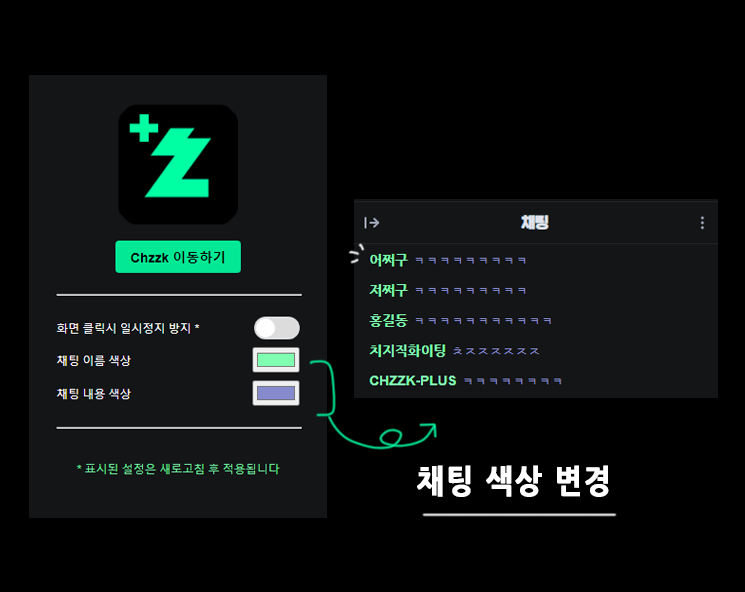
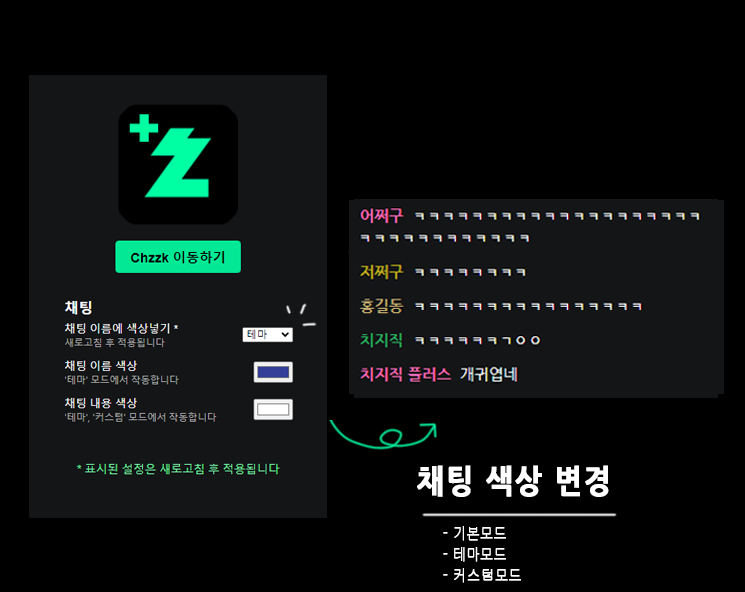
feat(chat): 채팅 색상 모드 (기본, 테마, 커스텀) #2 #3 #4

diff --git a/src/page/live.ts b/src/page/live.ts
@@ -1,11 +1,20 @@
 import Barricade from "../components/video/Barricade/Barricade";
 import PipButton from "../components/button/PipButton/PipButton";
 
-import { PLAYER_LAYOUT_ID, PLAYER_UI } from "../constants/class";
+import {
+  CHAT_CONTAINER,
+  CHAT_CONTENT,
+  CHAT_NAME,
+  PLAYER_LAYOUT_ID,
+  PLAYER_UI,
+} from "../constants/class";
+import { BARRICADE, CHAT_COLOR_THEME } from "../constants/storage";
 
 import { createReactElement } from "../utils/dom";
 import { isLivePage } from "../utils/page";
-import { log } from "../utils/log";
+import { log, logError } from "../utils/log";
+import { getNameColor } from "../utils/color";
+import { CHAT_NAME_COLOR, CHAT_TEXT_COLOR } from "../constants/data";
 
 export const editLivePage = () => {
   if (!isLivePage()) return;
@@ -31,8 +40,64 @@ export const editLivePage = () => {
   }
 
   // Feat: Barricade (이벤트 방해 모드) =======================================================
-  chrome.storage.local.get("barricade", (res) => {
-    if (res["barricade"] && !document.getElementById("chzzk-plus-barricade")) {
+  chrome.storage.local.get(BARRICADE, (res) => {
+    if (res[BARRICADE] && !document.getElementById("chzzk-plus-barricade")) {
+      // Pause 이벤트 막는 바리게이트 생성
+      const $playerUI = $playerLayout?.getElementsByClassName(PLAYER_UI)[0];
+      if ($playerUI && $playerUI.parentNode) {
+        const $barricade = document.createElement("div");
+        $barricade.id = "chzzk-plus-barricade";
+        $playerUI.parentNode.insertBefore($barricade, $playerUI);
+        createReactElement($barricade, Barricade);
+      }
+    }
+  });
+
+  // Feat: 채팅 색상 ==========================================================================
+  chrome.storage.local.get(CHAT_COLOR_THEME, (res) => {
+    const chatContainer = document.querySelector(
+      `div[class*="${CHAT_CONTAINER}"]`
+    );
+
+    if (chatContainer && res[CHAT_COLOR_THEME] !== "기본") {
+      if (res[CHAT_COLOR_THEME] && chatContainer.id !== CHAT_COLOR_THEME) {
+        chatContainer.id = CHAT_COLOR_THEME;
+
+        try {
+          // eslint-disable-next-line @typescript-eslint/no-unused-vars
+          const observer = new MutationObserver((mutationList, _observer) => {
+            for (const mutation of mutationList) {
+              for (const addedNode of mutation.addedNodes as NodeListOf<HTMLElement>) {
+                const nickname = addedNode.getElementsByClassName(
+                  CHAT_NAME
+                )[0] as HTMLElement;
+                const text = addedNode.getElementsByClassName(
+                  CHAT_CONTENT
+                )[0] as HTMLElement;
+
+                if (text) {
+                  text.style.color = `var(--${CHAT_TEXT_COLOR})`;
+                }
+
+                if (nickname) {
+                  if (res[CHAT_COLOR_THEME] === "테마") {
+                    nickname.style.color = getNameColor(
+                      nickname.textContent || ""
+                    );
+                  } else if (res[CHAT_COLOR_THEME] === "커스텀") {
+                    nickname.style.color = `var(--${CHAT_NAME_COLOR})`;
+                  }
+                }
+              }
+            }
+          });
+
+          observer.observe(document.body, { childList: true, subtree: true });
+        } catch (err) {
+          logError(err);
+        }
+      }
+
       // Pause 이벤트 막는 바리게이트 생성
       const $playerUI = $playerLayout?.getElementsByClassName(PLAYER_UI)[0];
       if ($playerUI && $playerUI.parentNode) {

diff --git a/src/App.tsx b/src/App.tsx
@@ -4,20 +4,73 @@ import Logo from "../public/icon128.png";
 import URLButton from "./components/button/URLButton/URLButton";
 import Checkbox from "./components/input/Checkbox/Checkbox";
 import ColorPicker from "./components/input/ColorPicker/ColorPicker";
+
+import {
+  BARRICADE,
+  CHAT_COLOR_OPTIONS,
+  CHAT_COLOR_THEME,
+} from "./constants/storage";
 import { CHAT_NAME_COLOR, CHAT_TEXT_COLOR } from "./constants/data";
+import { Select } from "./components/input/Select/Select";
 
 function App() {
   return (
     <div className="popup">
       <img src={Logo} alt="chzzk-plus" />
+
       <URLButton href="https://chzzk.naver.com/">Chzzk 이동하기</URLButton>
+      <URLButton href="https://github.com/kyechan99/chzzk-plus/issues">
+        버그 제보하기
+      </URLButton>
+
       <hr />
-      <div className="menu">
-        <Checkbox id="barricade">화면 클릭시 일시정지 방지 *</Checkbox>
-        <ColorPicker id={CHAT_NAME_COLOR}>채팅 이름 색상</ColorPicker>
-        <ColorPicker id={CHAT_TEXT_COLOR}>채팅 내용 색상</ColorPicker>
+
+      <div className="setting-group">
+        <h2 className="setting-label">플레이어</h2>
+        <div className="menus">
+          <Checkbox id={BARRICADE}>
+            <div className="menu">
+              <p className="menu-title">화면 클릭시 일시정지 방지 *</p>
+              <p className="menu-desc">새로고침 후 적용됩니다</p>
+            </div>
+          </Checkbox>
+        </div>
       </div>
+
       <hr />
+
+      <div className="setting-group">
+        <h2 className="setting-label">채팅</h2>
+        <div className="menus">
+          <Select
+            id={CHAT_COLOR_THEME}
+            options={CHAT_COLOR_OPTIONS.map((op) => {
+              return { name: op, value: op };
+            })}
+          >
+            <div className="menu">
+              <p className="menu-title">채팅 이름에 색상넣기 *</p>
+              <p className="menu-desc">새로고침 후 적용됩니다</p>
+            </div>
+          </Select>
+
+          <ColorPicker id={CHAT_NAME_COLOR}>
+            <div className="menu">
+              <p className="menu-title">채팅 이름 색상</p>
+              <p className="menu-desc">'테마' 모드에서 작동합니다</p>
+            </div>
+          </ColorPicker>
+          <ColorPicker id={CHAT_TEXT_COLOR}>
+            <div className="menu">
+              <p className="menu-title">채팅 내용 색상</p>
+              <p className="menu-desc">'테마', '커스텀' 모드에서 작동합니다</p>
+            </div>
+          </ColorPicker>
+        </div>
+      </div>
+
+      <hr />
+
       <p className="description">* 표시된 설정은 새로고침 후 적용됩니다</p>
     </div>
   );

diff --git a/src/components/input/Select/Select.tsx b/src/components/input/Select/Select.tsx
@@ -1,0 +1,41 @@
+import { useEffect, useState } from "react";
+
+type OptionType = {
+  name: string;
+  value: string;
+};
+
+interface SelectProps extends React.PropsWithChildren {
+  id: string;
+  options: OptionType[];
+}
+
+export const Select = ({ id, options, children }: SelectProps) => {
+  const [selectValue, setSelectValue] = useState<string>();
+
+  useEffect(() => {
+    chrome.storage.local.get([id], (res) => {
+      setSelectValue(res[id]);
+    });
+  }, []);
+
+  const onChangeHandler = (e: React.ChangeEvent<HTMLSelectElement>) => {
+    setSelectValue(e.target.value);
+    chrome.storage.local.set({ [id]: e.target.value });
+  };
+
+  return (
+    <>
+      <div className="form-group">
+        {children}
+        <select value={selectValue} onChange={onChangeHandler}>
+          {options.map((option) => (
+            <option key={option.name} value={option.value}>
+              {option.name}
+            </option>
+          ))}
+        </select>
+      </div>
+    </>
+  );
+};

diff --git a/src/App.css b/src/App.css
@@ -4,9 +4,10 @@ body {
 }
 #root {
   padding: 2rem;
-  min-width: 16rem;
+  min-width: 18rem;
 }
 hr {
+  opacity: 0.5;
   width: 100%;
 }
 .popup {
@@ -25,11 +26,33 @@ hr {
   justify-content: space-between;
 }
 
-.menu {
+.setting-group {
+  width: 100%;
+}
+.setting-label {
+  color: white;
+  width: 100%;
+  margin-top: 0px;
+  margin-bottom: 0.25rem;
+}
+.menus {
   width: 100%;
   display: flex;
   flex-direction: column;
-  gap: 0.5rem;
+  gap: 0.75rem;
+}
+.menus .menu {
+  display: flex;
+  flex-direction: column;
+}
+.menus .menu .menu-title {
+  font-size: 14px;
+  /* font-weight: bold; */
+  margin: 0px;
+}
+.menus .menu .menu-desc {
+  margin: 0px;
+  color: #afafaf;
 }
 .description {
   color: #6fec9f;

diff --git a/src/constants/class.ts b/src/constants/class.ts
@@ -8,3 +8,8 @@ export const PLAYER_UI = "player_header";
 // 좌측 스트리머 목록을 나타내는 아이템의 부모 클래스 및 그 자식 클래스명
 export const STREAMER_MENU_LIST = "navigator_list__cHnuV";
 export const STREAMER_MENU = "navigator_item__qXlq9";
+
+// 채팅 부모
+export const CHAT_CONTAINER = "live_chatting_list_wrapper__a5XTV";
+export const CHAT_NAME = "name_text__yQG50";
+export const CHAT_CONTENT = "live_chatting_message_text__DyleH";

diff --git a/src/page/global.ts b/src/page/global.ts
@@ -29,9 +29,7 @@ export const editGlobalPage = () => {
       `--${CHAT_TEXT_COLOR}`,
       res[CHAT_TEXT_COLOR] || CHAT_TEXT_COLOR_DEFAULT
     );
-    // for (const [key, value] of Object.entries(res)) {
-    //   document.documentElement.style.setProperty(`--${key}`, value);
-    // }
+
     if (!res[CHAT_NAME_COLOR])
       chrome.storage.local.set({ [CHAT_NAME_COLOR]: CHAT_NAME_COLOR_DEFAULT });
     if (!res[CHAT_TEXT_COLOR])

diff --git a/src/utils/color.ts b/src/utils/color.ts
@@ -1,0 +1,10 @@
+import { themeColors } from "../constants/color";
+
+export const getThemeColor = (idx: number) => {
+  return themeColors[idx % themeColors.length];
+};
+
+export const getNameColor = (nickname: string) => {
+  const ascii = nickname.charCodeAt(0) + (nickname.charCodeAt(1) || 0);
+  return getThemeColor(ascii % themeColors.length);
+};

diff --git a/src/constants/storage.ts b/src/constants/storage.ts
@@ -1,0 +1,10 @@
+// 크롬 Storage 관리
+export const BARRICADE = "barricade";
+
+export const CHAT_COLOR_THEME = "chat-color-theme";
+export const CHAT_COLOR_OPTIONS: CHAT_COLOR_OPTION_TYPE[] = [
+  "기본",
+  "테마",
+  "커스텀",
+];
+export type CHAT_COLOR_OPTION_TYPE = "기본" | "테마" | "커스텀";

diff --git a/src/components/Global.css b/src/components/Global.css
@@ -1,6 +1,6 @@
-.live_chatting_list_wrapper__a5XTV .name_text__yQG50 {
+/* .live_chatting_list_wrapper__a5XTV .name_text__yQG50 {
   color: var(--czp-chat-name) !important;
 }
 .live_chatting_list_wrapper__a5XTV .live_chatting_message_text__DyleH {
   color: var(--czp-chat-text) !important;
-}
+} */

diff --git a/src/constants/color.ts b/src/constants/color.ts
@@ -1,0 +1,19 @@
+// 채팅 색상
+export const themeColors = [
+  "#D2691E",
+  "#bfa86d",
+  "#aba2ed",
+  "#2fb786",
+  "#FF69B4",
+  "#EAB77E",
+  "#3498db",
+  "#e74c3c",
+  "#5F9EA0",
+  "#8e44ad",
+  "#f39c12",
+  "#0000FF",
+  "#BDA917",
+  "#27ae60",
+  "#c0392b",
+  "#E4DF13",
+];
